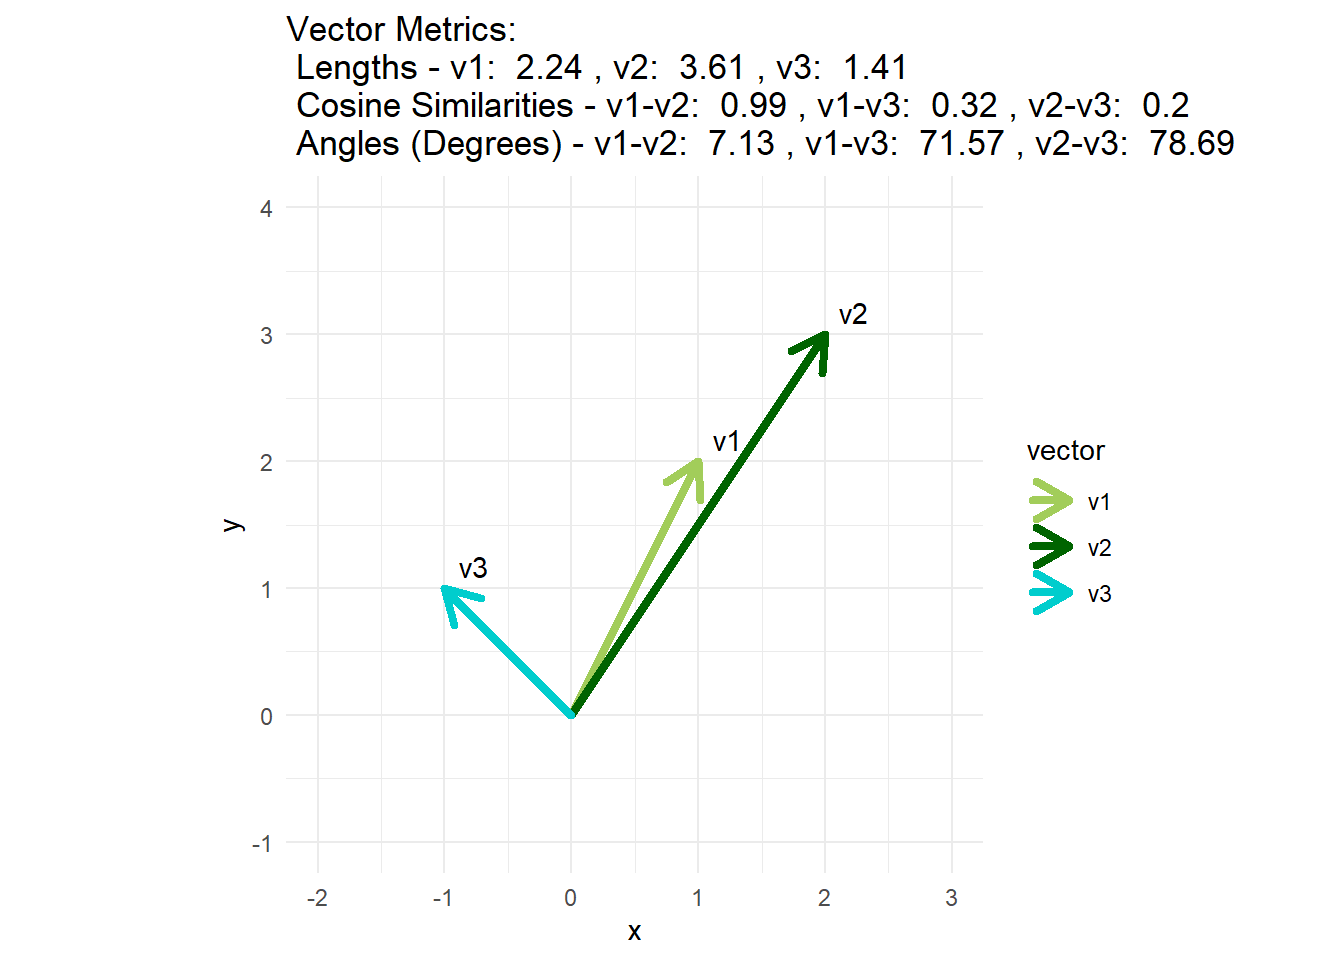
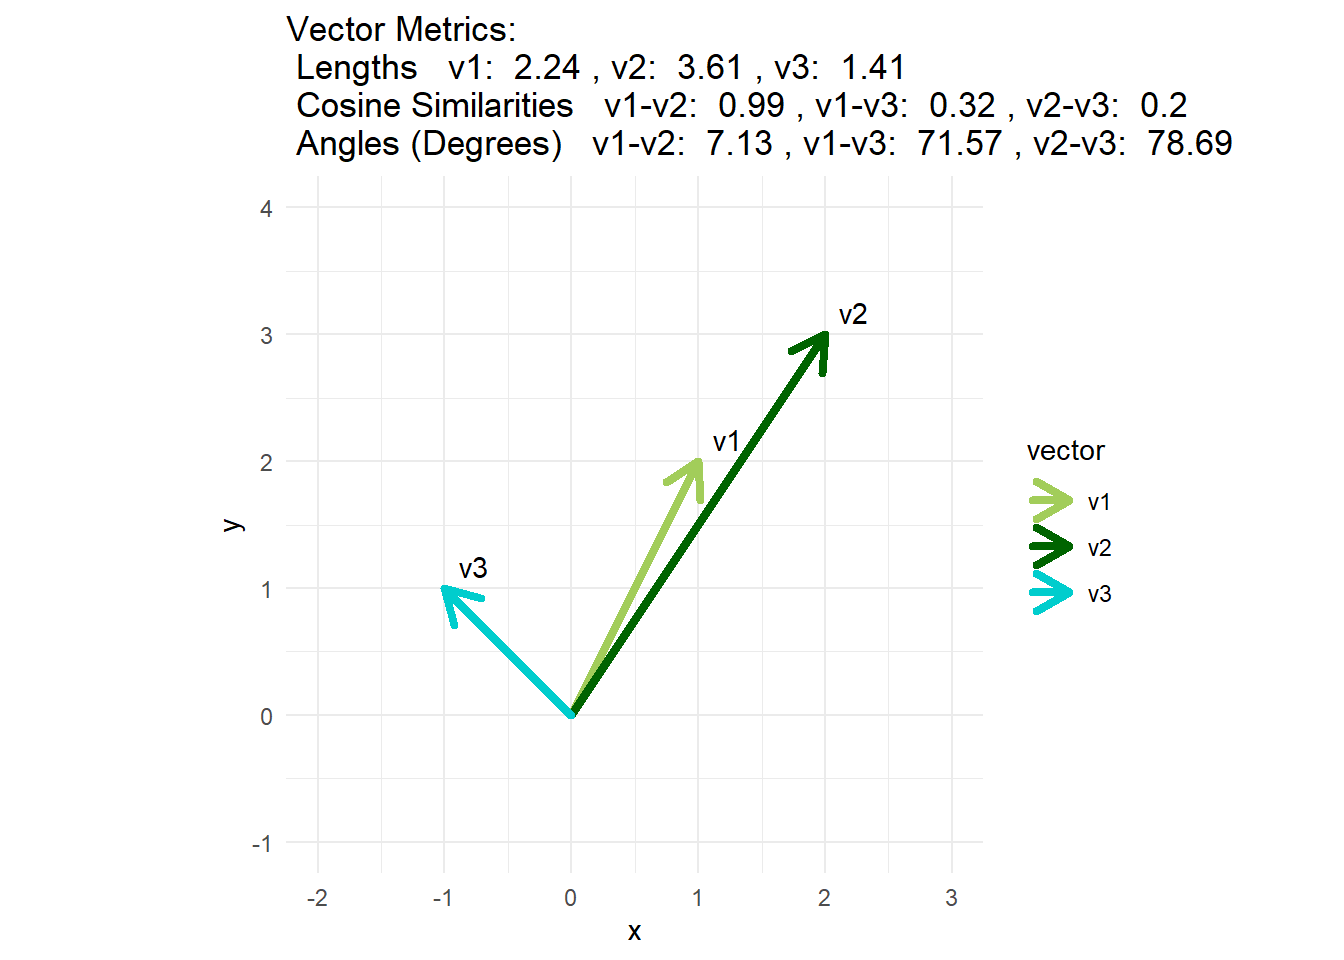
cosine similarity v7 add appendix v2

Changed region(s): [[0.3125, 0.0625, 0.9375, 0.1562]]

diff --git a/_site/posts/cosine-similar/index.html b/_site/posts/cosine-similar/index.html
@@ -532,14 +532,14 @@ bitcoin     0.2190691 -0.05570452</code></pre>
 <span id="cb19-47"><a href="#cb19-47" aria-hidden="true" tabindex="-1"></a>  <span class="fu">geom_text</span>(<span class="fu">aes</span>(<span class="at">x =</span> xend, <span class="at">y =</span> yend, <span class="at">label =</span> vector), <span class="at">vjust =</span> <span class="sc">-</span><span class="fl">0.5</span>, <span class="at">hjust =</span> <span class="sc">-</span><span class="fl">0.5</span>) <span class="sc">+</span></span>
 <span id="cb19-48"><a href="#cb19-48" aria-hidden="true" tabindex="-1"></a>  <span class="fu">coord_fixed</span>(<span class="at">ratio =</span> <span class="dv">1</span>, <span class="at">xlim =</span> <span class="fu">c</span>(<span class="sc">-</span><span class="dv">2</span>, <span class="dv">3</span>), <span class="at">ylim =</span> <span class="fu">c</span>(<span class="sc">-</span><span class="dv">1</span>, <span class="dv">4</span>)) <span class="sc">+</span></span>
 <span id="cb19-49"><a href="#cb19-49" aria-hidden="true" tabindex="-1"></a>  <span class="fu">ggtitle</span>(<span class="fu">paste</span>(<span class="st">"Vector Metrics:</span><span class="sc">\n</span><span class="st">"</span>,</span>
-<span id="cb19-50"><a href="#cb19-50" aria-hidden="true" tabindex="-1"></a>                <span class="st">"Lengths - v1: "</span>, <span class="fu">round</span>(length_v1, <span class="dv">2</span>), <span class="st">", v2: "</span>, </span>
+<span id="cb19-50"><a href="#cb19-50" aria-hidden="true" tabindex="-1"></a>                <span class="st">"Lengths   v1: "</span>, <span class="fu">round</span>(length_v1, <span class="dv">2</span>), <span class="st">", v2: "</span>, </span>
 <span id="cb19-51"><a href="#cb19-51" aria-hidden="true" tabindex="-1"></a>                <span class="fu">round</span>(length_v2, <span class="dv">2</span>), <span class="st">", v3: "</span>, </span>
 <span id="cb19-52"><a href="#cb19-52" aria-hidden="true" tabindex="-1"></a>                <span class="fu">round</span>(length_v3, <span class="dv">2</span>), <span class="st">"</span><span class="sc">\n</span><span class="st">"</span>,</span>
-<span id="cb19-53"><a href="#cb19-53" aria-hidden="true" tabindex="-1"></a>                <span class="st">"Cosine Similarities - v1-v2: "</span>, </span>
+<span id="cb19-53"><a href="#cb19-53" aria-hidden="true" tabindex="-1"></a>                <span class="st">"Cosine Similarities   v1-v2: "</span>, </span>
 <span id="cb19-54"><a href="#cb19-54" aria-hidden="true" tabindex="-1"></a>                <span class="fu">round</span>(sim_v1_v2, <span class="dv">2</span>), <span class="st">", v1-v3: "</span>, </span>
 <span id="cb19-55"><a href="#cb19-55" aria-hidden="true" tabindex="-1"></a>                <span class="fu">round</span>(sim_v1_v3, <span class="dv">2</span>), <span class="st">", v2-v3: "</span>, </span>
 <span id="cb19-56"><a href="#cb19-56" aria-hidden="true" tabindex="-1"></a>                <span class="fu">round</span>(sim_v2_v3, <span class="dv">2</span>), <span class="st">"</span><span class="sc">\n</span><span class="st">"</span>,</span>
-<span id="cb19-57"><a href="#cb19-57" aria-hidden="true" tabindex="-1"></a>                <span class="st">"Angles (Degrees) - v1-v2: "</span>, </span>
+<span id="cb19-57"><a href="#cb19-57" aria-hidden="true" tabindex="-1"></a>                <span class="st">"Angles (Degrees)   v1-v2: "</span>, </span>
 <span id="cb19-58"><a href="#cb19-58" aria-hidden="true" tabindex="-1"></a>                <span class="fu">round</span>(angle_v1_v2, <span class="dv">2</span>), <span class="st">", v1-v3: "</span>, </span>
 <span id="cb19-59"><a href="#cb19-59" aria-hidden="true" tabindex="-1"></a>                <span class="fu">round</span>(angle_v1_v3, <span class="dv">2</span>), <span class="st">", v2-v3: "</span>, </span>
 <span id="cb19-60"><a href="#cb19-60" aria-hidden="true" tabindex="-1"></a>                <span class="fu">round</span>(angle_v2_v3, <span class="dv">2</span>))) <span class="sc">+</span></span>

diff --git a/_site/index.html b/_site/index.html
@@ -205,7 +205,7 @@ window.Quarto = {
 
 <div class="quarto-listing quarto-listing-container-default" id="listing-listing">
 <div class="list quarto-listing-default">
-<div class="quarto-post image-right" data-index="0" data-categories="code,analysis" data-listing-date-sort="1712214000000" data-listing-file-modified-sort="1713286981414" data-listing-date-modified-sort="NaN" data-listing-reading-time-sort="7" data-listing-word-count-sort="1334">
+<div class="quarto-post image-right" data-index="0" data-categories="code,analysis" data-listing-date-sort="1712214000000" data-listing-file-modified-sort="1713287291052" data-listing-date-modified-sort="NaN" data-listing-reading-time-sort="7" data-listing-word-count-sort="1337">
 <div class="thumbnail">
 <p><a href="./posts/cosine-similar/index.html" class="no-external"></a></p><a href="./posts/cosine-similar/index.html" class="no-external">
 <p class="card-img-top"><img src="posts\cosine-similar\index_files\figure-html\unnamed-chunk-4-1.png"  class="thumbnail-image card-img"/></p>
